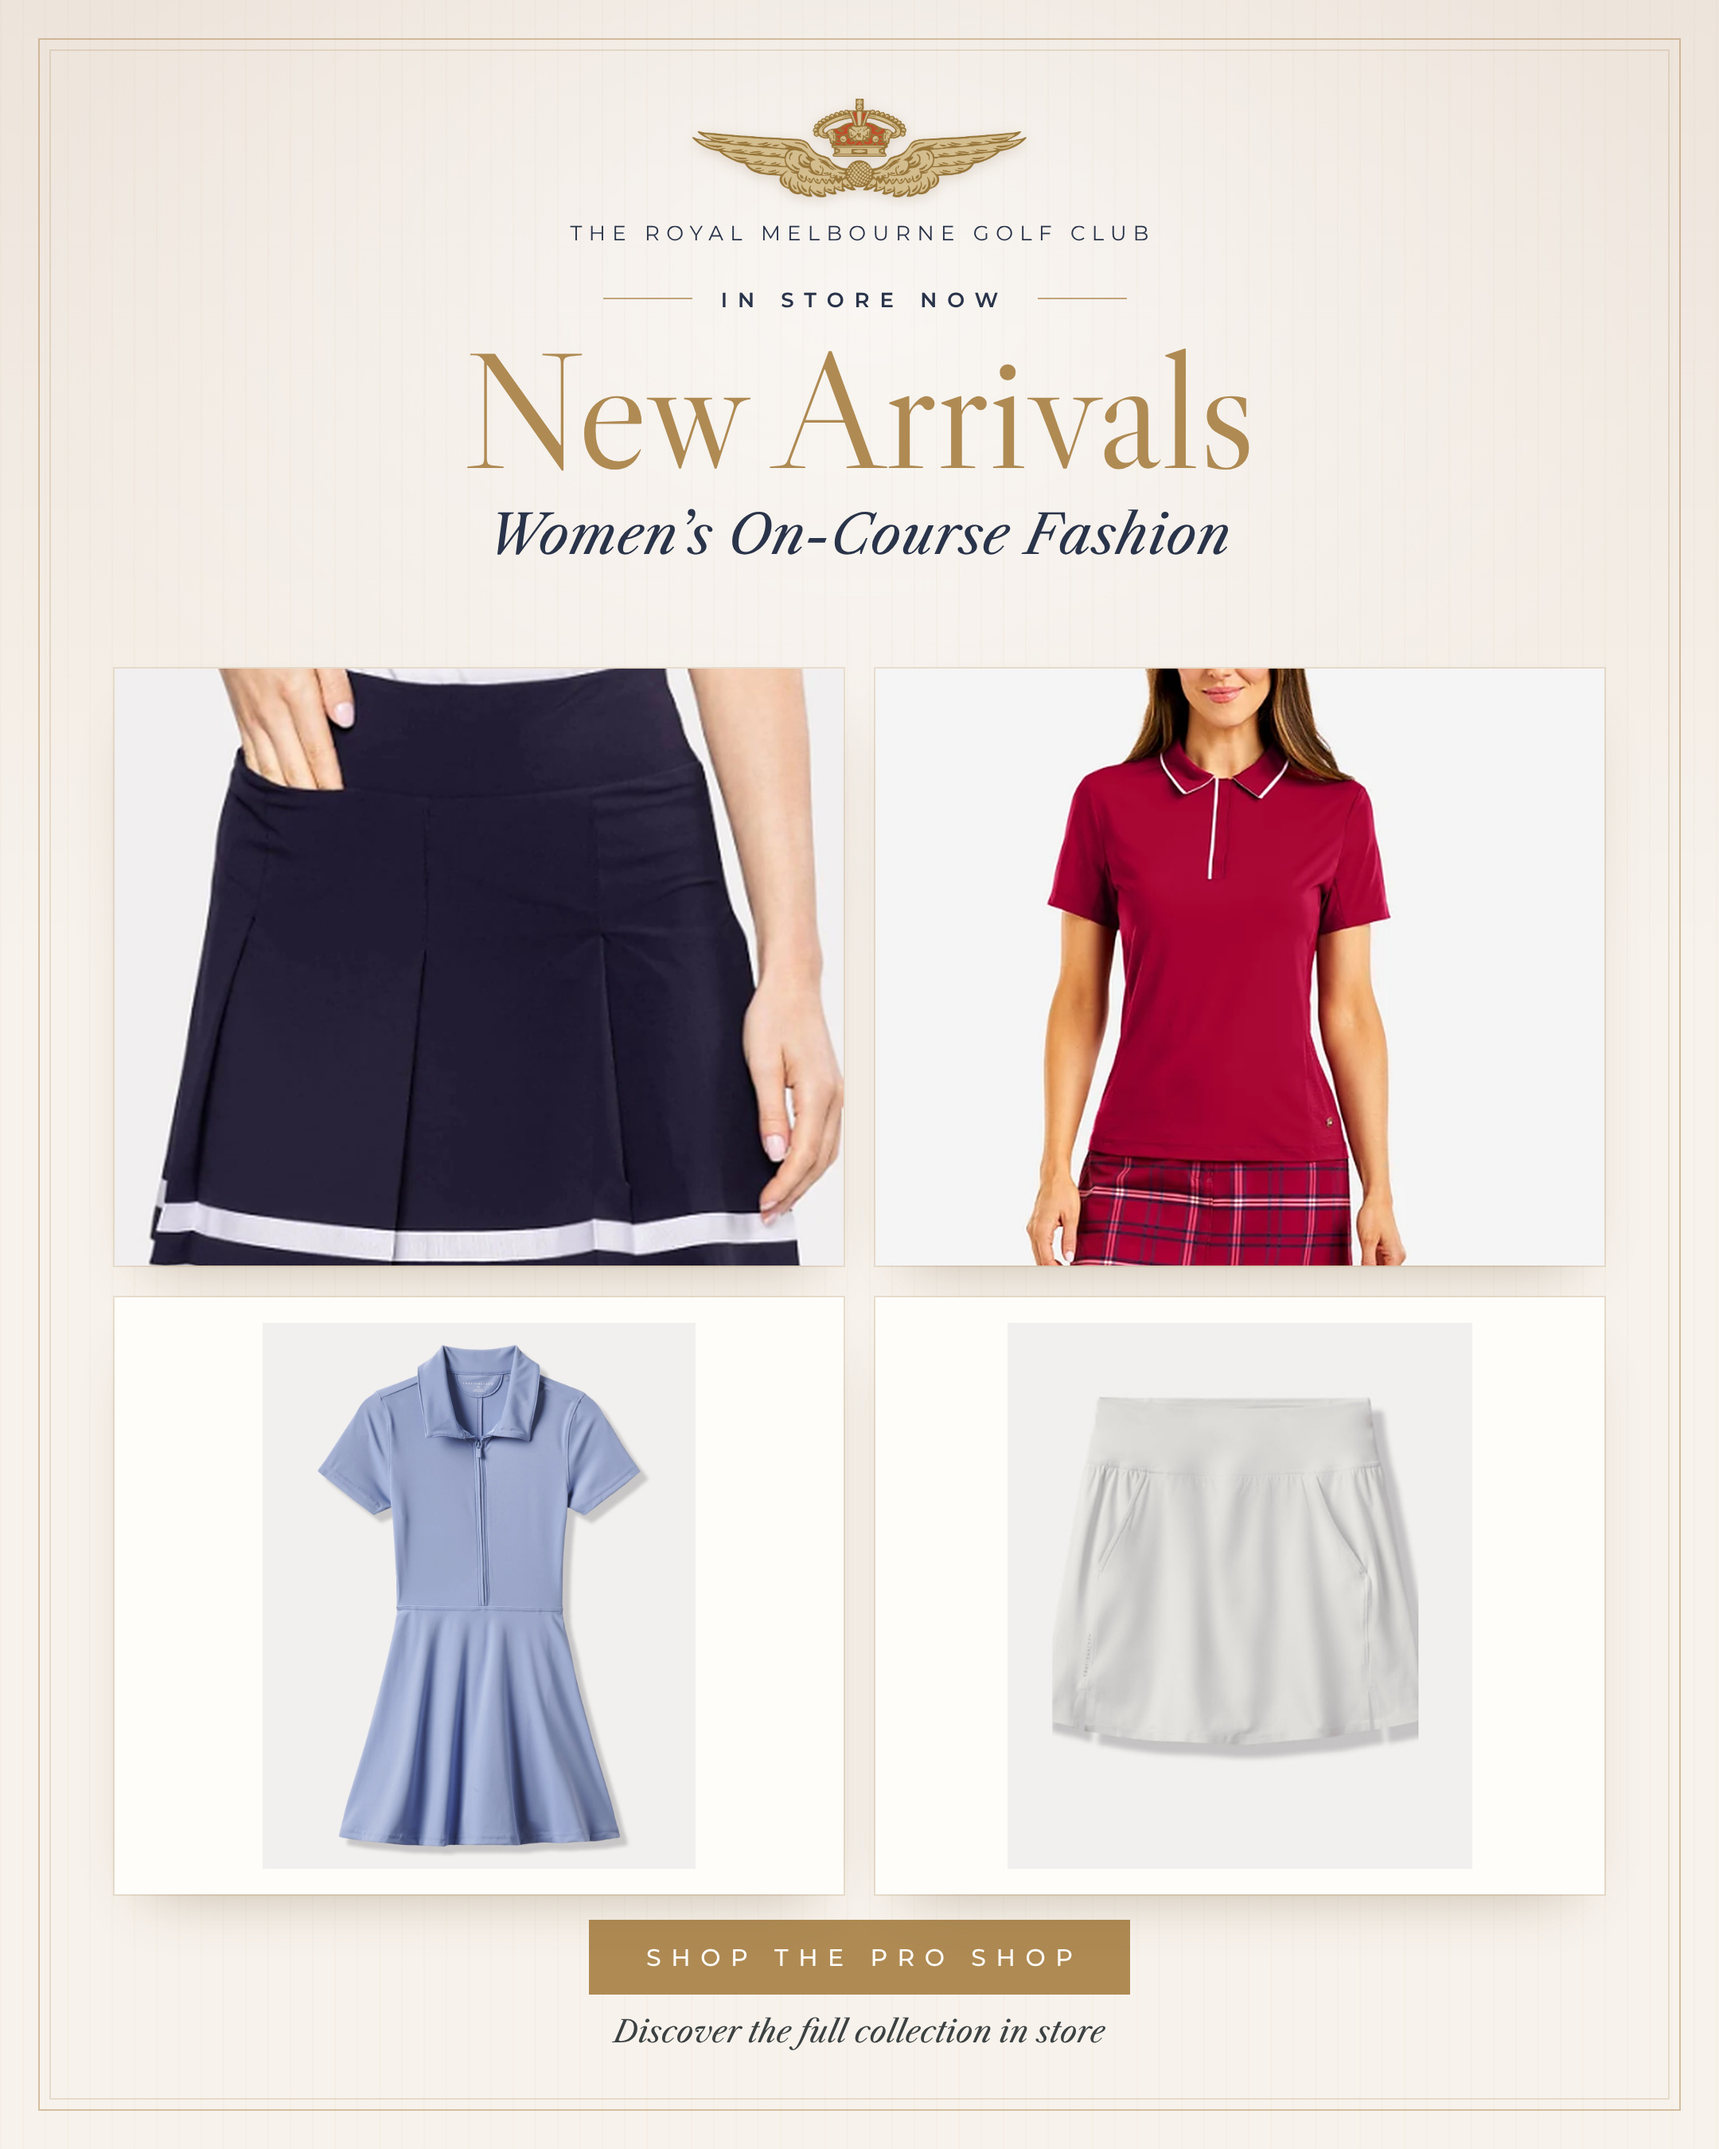
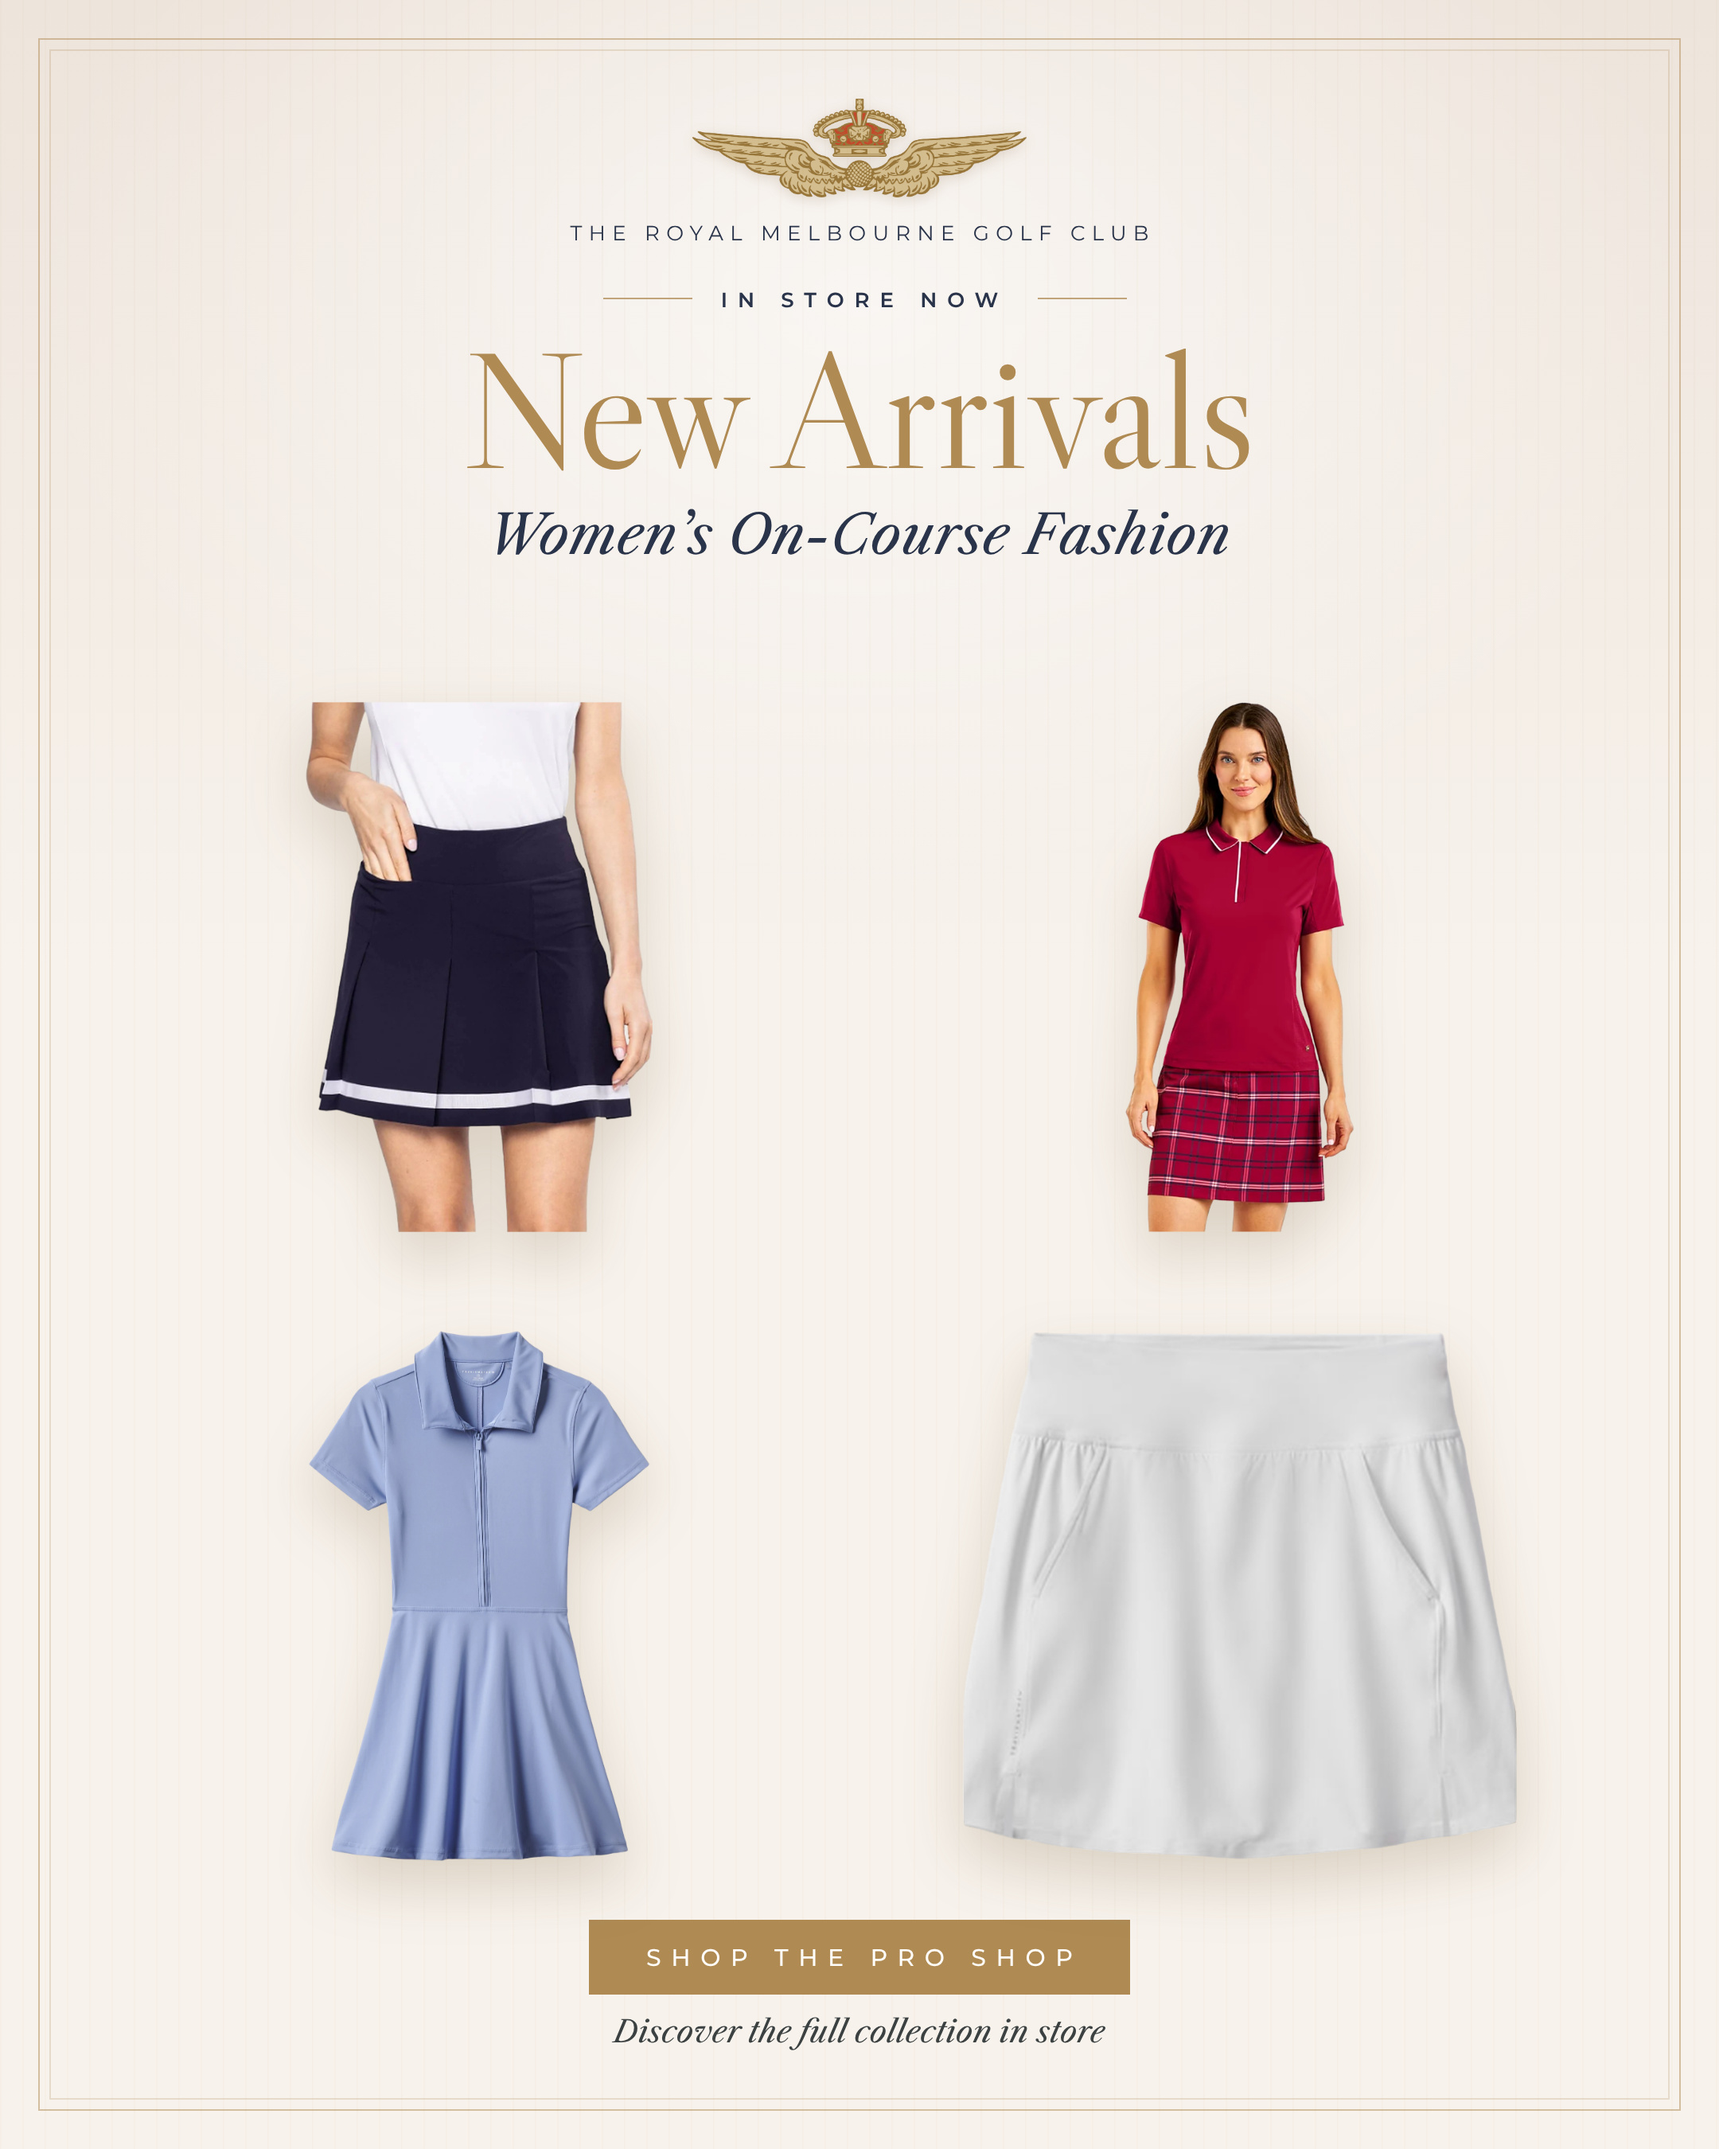
Instagram Story: remove look numbers and white backgrounds (cut-out garments on the page)
Claude-Session: https://claude.ai/code/session_019wMMuVn2NWi4PmzKyXQ4Fb

diff --git a/instagram/story.html b/instagram/story.html
@@ -42,12 +42,13 @@
 
   /* ---------- Pages 2+: one outfit per page ---------- */
   .look header { position:absolute; top:240px; left:0; right:0; }
-  .look .crest { width:180px; display:block; margin:0 auto; }
+  .look .crest { width:220px; display:block; margin:0 auto; }
   .look .eyebrow { margin-top:22px; }
-  .look .num { margin-top:6px; font-family:'Libre Caslon Display', serif; font-size:64px; color:var(--antique); line-height:1.1; }
-  .tile { position:absolute; left:150px; right:150px; top:500px; height:1000px; background:var(--paper); overflow:hidden;
-    box-shadow: 0 24px 48px -26px rgba(120,90,50,.5), 0 0 0 1px rgba(175,138,83,.25); }
-  .tile img { width:100%; height:100%; object-fit:contain; display:block; }  /* whole outfit, never cropped */
+  .look .num {  /* unused: look numbers removed by request */ margin-top:6px; font-family:'Libre Caslon Display', serif; font-size:64px; color:var(--antique); line-height:1.1; }
+  /* Cut-out garments sit straight on the page — no white box */
+  .tile { position:absolute; left:110px; right:110px; top:440px; height:1060px; }
+  .tile img { width:100%; height:100%; object-fit:contain; display:block;
+    filter: drop-shadow(0 22px 26px rgba(120,90,50,.22)); }
   .look footer { position:absolute; left:0; right:0; bottom:300px; }
   .cta { display:inline-block; background:var(--antique); color:var(--paper);
     font-size:16px; font-weight:500; letter-spacing:.42em; padding:15px 32px 15px calc(32px + .42em); }
@@ -57,7 +58,7 @@
 <body>
 <div class="story" id="story"><div class="frame"></div></div>
 <script>
-  // build_story.js injects window.PAGE = {type:'cover'} or {type:'look', src, n, bg}
+  // build_story.js injects window.PAGE = {type:'cover'} or {type:'look', src, n}
   const p = window.PAGE || { type: 'cover' };
   const s = document.getElementById('story');
   if (p.type === 'cover') {
@@ -77,9 +78,8 @@
       <header>
         <img class="crest" src="../rmgc-crest.png" alt="">
         <div class="eyebrow">NEW ARRIVALS</div>
-        <div class="num"><i>Look</i> ${String(p.n).padStart(2, '0')}</div>
       </header>
-      <div class="tile" style="background:${p.bg || '#fff'}"><img src="${p.src}" alt=""></div>
+      <div class="tile"><img src="${p.src}" alt=""></div>
       <footer>
         <div class="cta">IN STORE NOW</div>
         <div class="tag">Women’s on-course fashion at the Pro Shop</div>

diff --git a/instagram/post.html b/instagram/post.html
@@ -36,10 +36,9 @@
   /* Adaptive image grid — fills the same band whatever the number of images */
   .grid { position:absolute; left:72px; right:72px; top:420px; height:770px;
     display:grid; gap:20px; z-index:2; }
-  .card { background:var(--paper); display:flex; align-items:center; justify-content:center;
-    padding:16px; overflow:hidden; min-height:0;
-    box-shadow: 0 18px 36px -22px rgba(120,90,50,.45), 0 0 0 1px rgba(175,138,83,.2); }
-  .card img { max-width:100%; max-height:100%; object-fit:contain; mix-blend-mode:multiply; }
+  /* Cut-out garments sit straight on the page — no white box */
+  .card { display:flex; align-items:center; justify-content:center; padding:8px; min-height:0; }
+  .card img { max-width:100%; max-height:100%; object-fit:contain; filter: drop-shadow(0 16px 18px rgba(120,90,50,.22)); }
   .card.photo { padding:0; }            /* lifestyle shots fill the tile */
   .card.photo img { width:100%; height:100%; max-width:none; max-height:none; object-fit:cover; mix-blend-mode:normal; }
   .placeholder { width:100%; height:100%; border:1px dashed rgba(168,140,90,.6); display:flex;

diff --git a/instagram/build_story.js b/instagram/build_story.js
@@ -5,9 +5,7 @@ const fs = require('fs'), path = require('path');
 const dir = __dirname, out = path.join(dir, 'story');
 fs.rmSync(out, { recursive: true, force: true }); fs.mkdirSync(out);
 const images = fs.readdirSync(path.join(dir, 'images')).filter(f => /\.(png|jpe?g|webp)$/i.test(f)).sort();
-const bgFile = path.join(dir, 'images', 'bg.json');
-const bg = fs.existsSync(bgFile) ? JSON.parse(fs.readFileSync(bgFile)) : {};
-const pages = [{ type: 'cover' }, ...images.map((f, i) => ({ type: 'look', src: 'images/' + f, n: i + 1, bg: bg[f] }))];
+const pages = [{ type: 'cover' }, ...images.map((f, i) => ({ type: 'look', src: 'images/' + f, n: i + 1 }))];
 (async () => {
   const browser = await chromium.launch();
   for (const [i, pg] of pages.entries()) {
